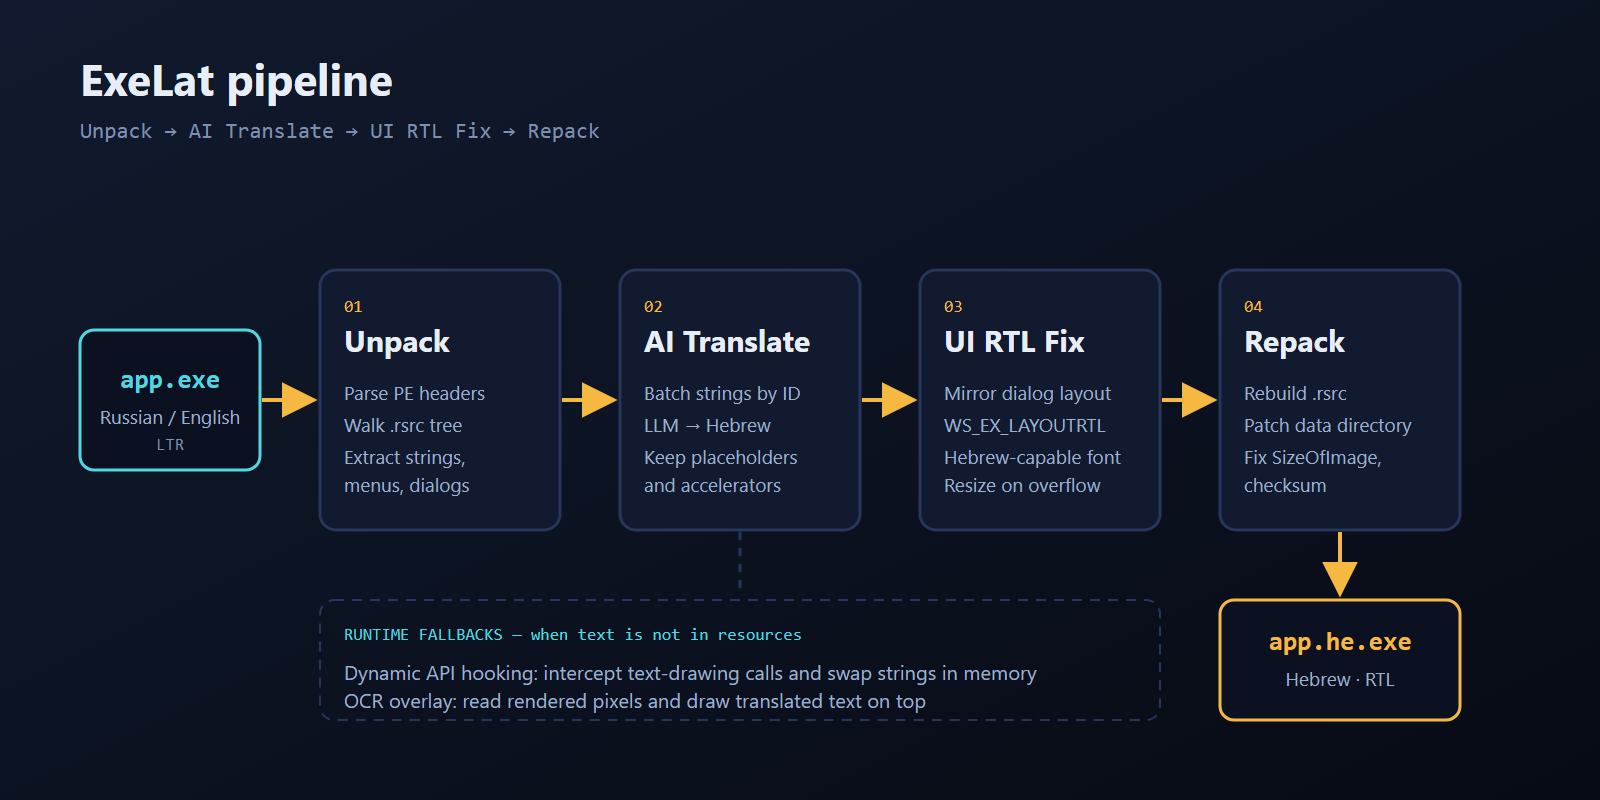
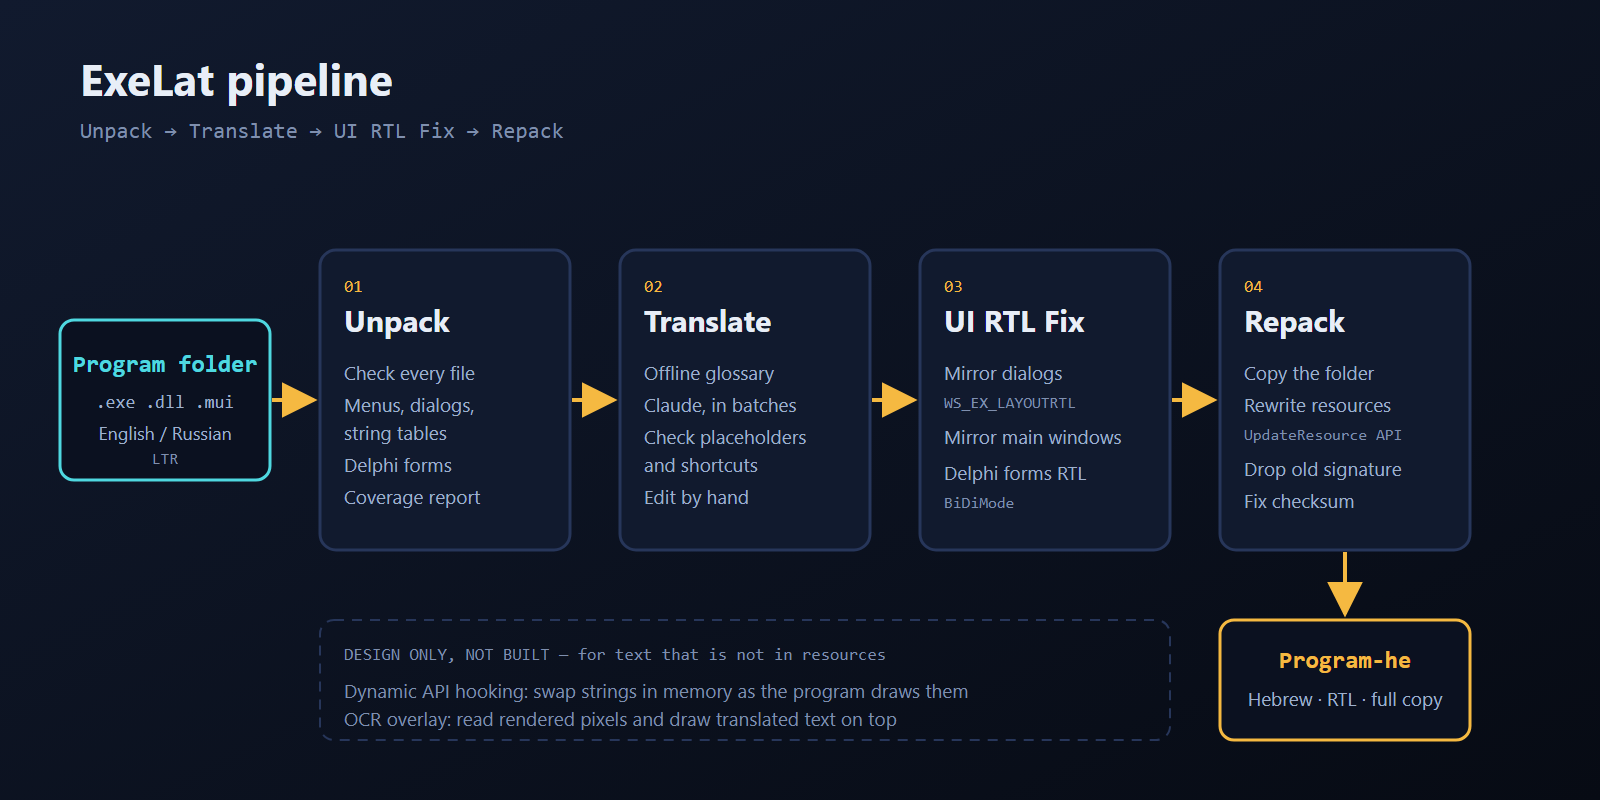
Update project images to match the tool
- architecture diagram: program folder in, full translated copy out;
  real steps per stage; hooking/OCR marked as design only
- screenshot: the dashboard after a real whole-folder scan of 7-Zip

diff --git a/README.md b/README.md
@@ -28,6 +28,8 @@ Plenty of useful Windows software was never released in Hebrew, and its source c
 
 ![ExeLat dashboard](assets/mockup_preview.png)
 
+<sub>The dashboard after checking the whole 7-Zip folder, before AI translation: 54 of 482 texts come from the offline glossary.</sub>
+
 ### Verified result
 
 - **Win32:** 7-Zip File Manager (`7zFM.exe`, 406 distinct UI texts) was translated end to end in about 30 seconds. The output starts, its main window reports `WS_EX_LAYOUTRTL`, and its menu reads `קובץ → פתח, שנה שם, מחק, מאפיינים, צור תיקיה…` with shortcuts (`F2`, `Ctrl+N`) intact.
